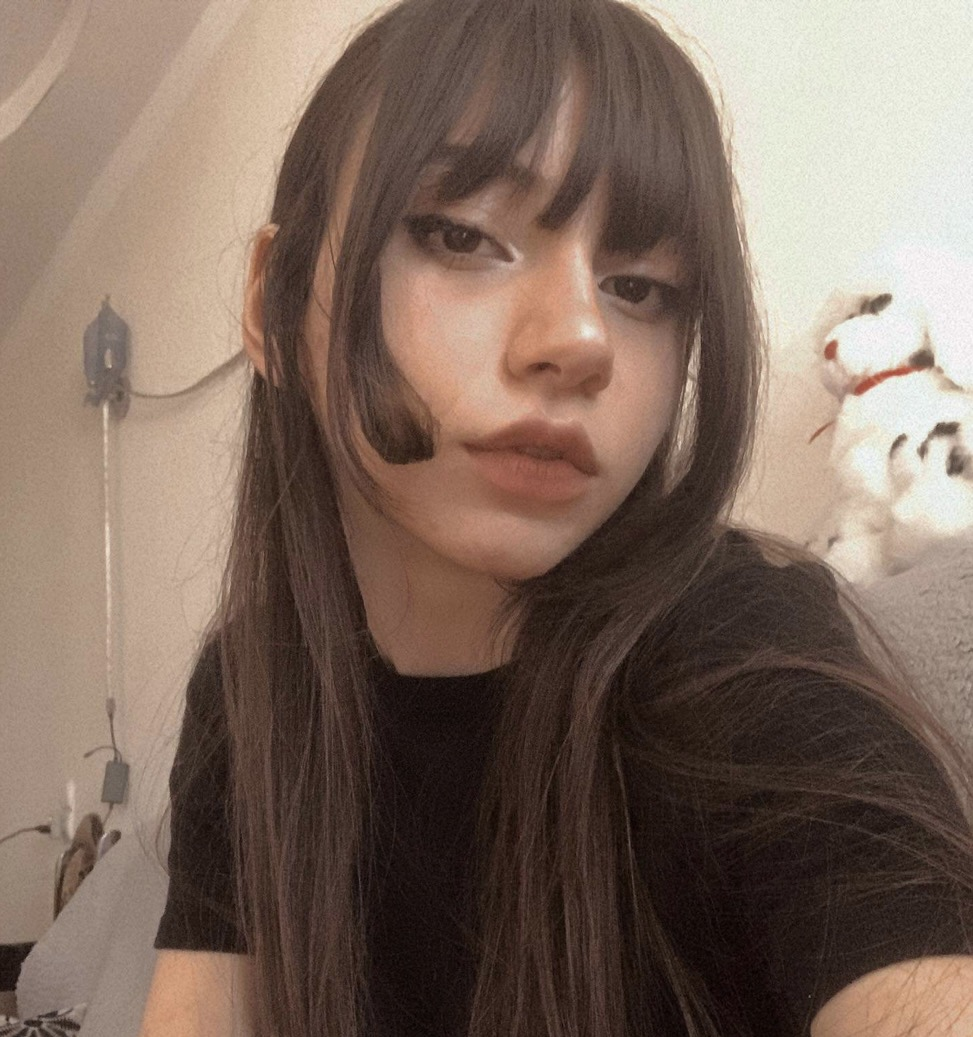
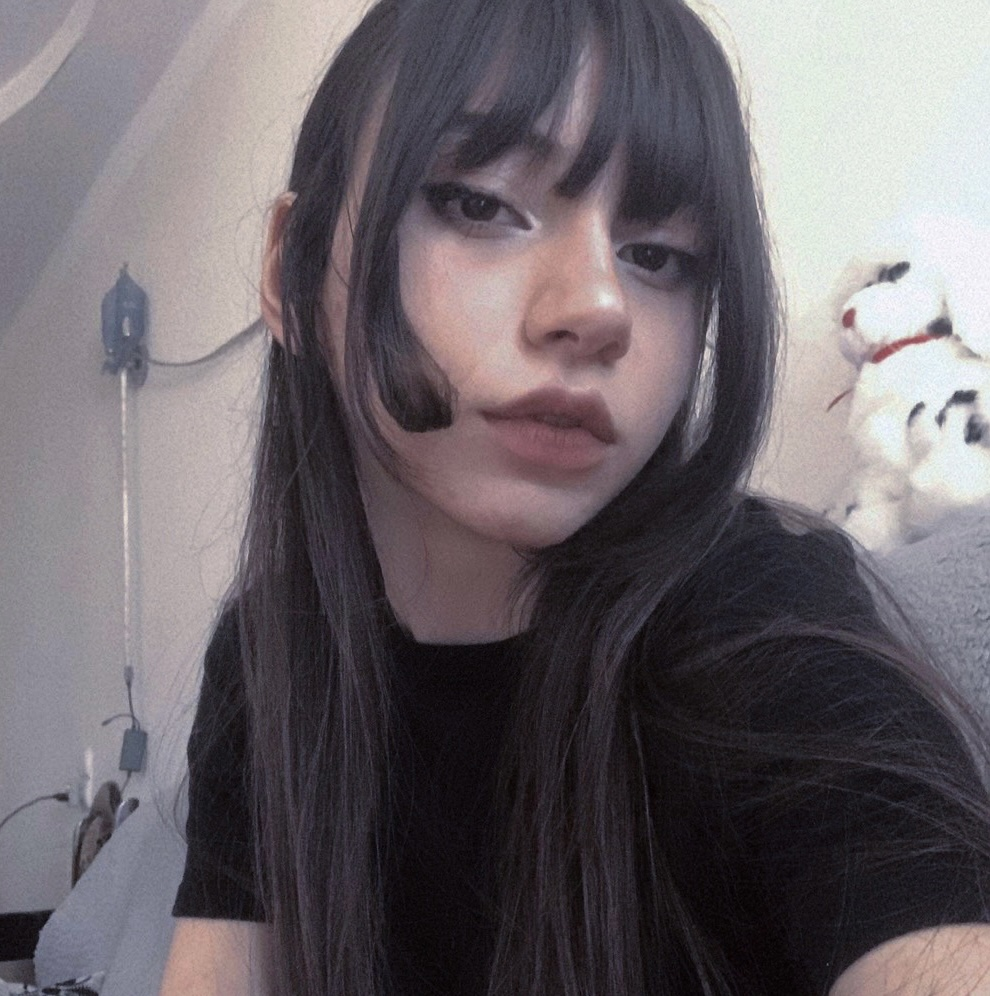
Add mobile version

diff --git a/src/App.js b/src/App.js
@@ -1,5 +1,4 @@
 import "./App.css";
-
 import pic from "./pic.jpg";
 
 import { FontAwesomeIcon } from "@fortawesome/react-fontawesome";
@@ -15,32 +14,85 @@ import {
 function App() {
   return (
     <div className="App">
-      <h1 className="heading">Hello, I'm Nini, Junior Front-end Engineer.</h1>
+      <img src={pic} className="picOfMe" />
+      <h1 className="heading">
+        <span className="char">H</span>
+        <span className="char">i</span>
+        <span className="char">,</span>
+        <br />
+        <span className="char">I</span>
+        <span className="char">'</span>
+        <span className="char">m</span>
+        <span> </span>
+        <span className="char">N</span>
+        <span className="char">i</span>
+        <span className="char">n</span>
+        <span className="char">i</span>
+        <span className="char">,</span>
+        <br />
+        <span className="char">W</span>
+        <span className="char">e</span>
+        <span className="char">b</span>
+        <span> </span>
+        <span className="char">D</span>
+        <span className="char">e</span>
+        <span className="char">v</span>
+        <span className="char">e</span>
+        <span className="char">l</span>
+        <span className="char">o</span>
+        <span className="char">p</span>
+        <span className="char">e</span>
+        <span className="char">r</span>
+        <span className="char">.</span>
+      </h1>
       <p className="aboutMe">
-        I currently study at The University Of Georgia, Informatics faculty
-        where I have gained knowledge in C++. Apart from the university, I
-        actively learn and practice on my own. I have done a few online courses
-        that helped me to learn HTML, CSS, JavaScript, React.js, etc. I have
-        also completed several projects where I have developed web applications
-        from scratch. I am eager to learn more and expand my skillset as a
-        Front-End Engineer every day.
+        I actively learn and practice on my own every day. I have done a few
+        online courses completed several{" "}
+        <a
+          className="repoLink"
+          href="https://github.com/melissamelissaa?tab=repositories"
+        >
+          projects
+        </a>{" "}
+        where I have developed web applications from scratch. I am eager to
+        learn more and expand my skillset as a Front-End Engineer every day.
       </p>
-      <button>
-        <FontAwesomeIcon icon={faFilePdf} className="icon" />
-        Resume
-      </button>
+      <a href="" target="_blank" className="btnLink">
+        <button className="btn">
+          <span className="iconForBtn">
+            <FontAwesomeIcon icon={faFilePdf} />
+          </span>
+          <p className="btnText">Resume</p>
+        </button>
+      </a>
 
-      <button>
-        <FontAwesomeIcon icon={faLinkedin} className="icon" />
-        LinkedIn
-      </button>
+      <a
+        href="https://www.linkedin.com/in/nini-chiaberashvili/"
+        target="_blank"
+        className="btnLink"
+      >
+        <button className="btn">
+          <span className="iconForBtn">
+            <FontAwesomeIcon icon={faLinkedin} />
+          </span>
+          <p className="btnText">LinkedIn</p>
+        </button>
+      </a>
 
-      <button>
-        <FontAwesomeIcon icon={faGithub} className="icon" />
-        GitHub
-      </button>
+      <a
+        href="https://github.com/melissamelissaa"
+        target="_blank"
+        className="btnLink"
+      >
+        <button className="btn">
+          <span className="iconForBtn">
+            <FontAwesomeIcon icon={faGithub} />
+          </span>
+          <p className="btnText">GitHub</p>
+        </button>
+      </a>
 
-      <div>
+      <div className="containerOfIcons">
         <a
           target="_blank"
           href="https://www.facebook.com/nini.chiaberashvili.5/"
@@ -66,7 +118,6 @@ function App() {
           <FontAwesomeIcon icon={faPhone} className="icon" />
         </a>
       </div>
-      <img src={pic} className="picOfMe"/>
     </div>
   );
 }

diff --git a/src/App.css b/src/App.css
@@ -1,33 +1,91 @@
+@import url("https://fonts.googleapis.com/css2?family=Raleway:ital,wght@0,400;1,100&display=swap");
 :root {
-  --background-color: black;
-  --second-color: #124559;
+  --background-color: rgb(33, 33, 33);
+  --second-color: #00b7ff;
   --text-color: #e6e6fa;
 }
 body,
 html {
-  /* background-color: var(--background-color); */
-  background: rgb(0, 0, 0);
-  background: linear-gradient(
-    90deg,
-    rgba(0, 0, 0, 1) 17%,
-    rgba(0, 23, 31, 1) 44%,
-    rgba(8, 48, 62, 1) 65%,
-    rgba(23, 67, 84, 1) 76%,
-    rgba(33, 128, 164, 1) 100%
-  );
+  background-color: var(--background-color);
   color: var(--text-color);
+}
+.btn {
+  height: 3rem;
+  margin-top: 1rem;
+  width: 100%;
+}
+.aboutMe {
+  color: rgb(175, 174, 174);
 }
 .App {
   display: flex;
   flex-direction: column;
+  height: 100vh;
+  margin: 2.5rem;
+  font-family: "Raleway", sans-serif;
 }
-button {
-  background-color: var(--second-color);
+.iconForBtn {
+  float: left;
+  font-size: 1.8rem;
+  padding-top: 5px;
+}
+.btnText {
+  /* font-size: 0.9rem; */
+  padding-right: 1.8rem;
+}
+
+button {  
   border: none;
-  color: var(--text-color);
+
+  background-image: linear-gradient(
+    to right,
+    #085078 0%,
+    #639b94 51%,
+    #085078 100%
+  );
+  margin: 10px;
+  padding-left: 10px;
+  text-align: center;
+  text-transform: uppercase;
+  transition: 0.5s;
+  background-size: 200% auto;
+  color: white;
+  border-radius: 10px;
+  display: block;
+}
+.char {
+  transition: .2s;
+}
+.char:hover,
+.icon:hover {
+  color: var(--second-color);
+}
+.btn:hover {
+  background-position: right center; /* change the direction of the change here */
+  color: #fff;
+  text-decoration: none;
+}
+.containerOfIcons {
+  margin-top: 1rem;
+}
+.icon {
+  font-size: 1.2rem;
+  padding-left: 1rem;
+  color: rgb(97, 96, 96);
+  transition: .3s;
+}
+.btnLink {
+  text-decoration: none;
 }
 .picOfMe {
-  width: 20%;
-  height: 20%;
+  width: 18rem;
+  height: 34vh;
+  margin: 0 auto;
   border-radius: 50%;
+}
+.repoLink {
+  color: var(--second-color);
+  text-decoration: none;
+}
+@media screen and (min-width: 480px) {
 }
